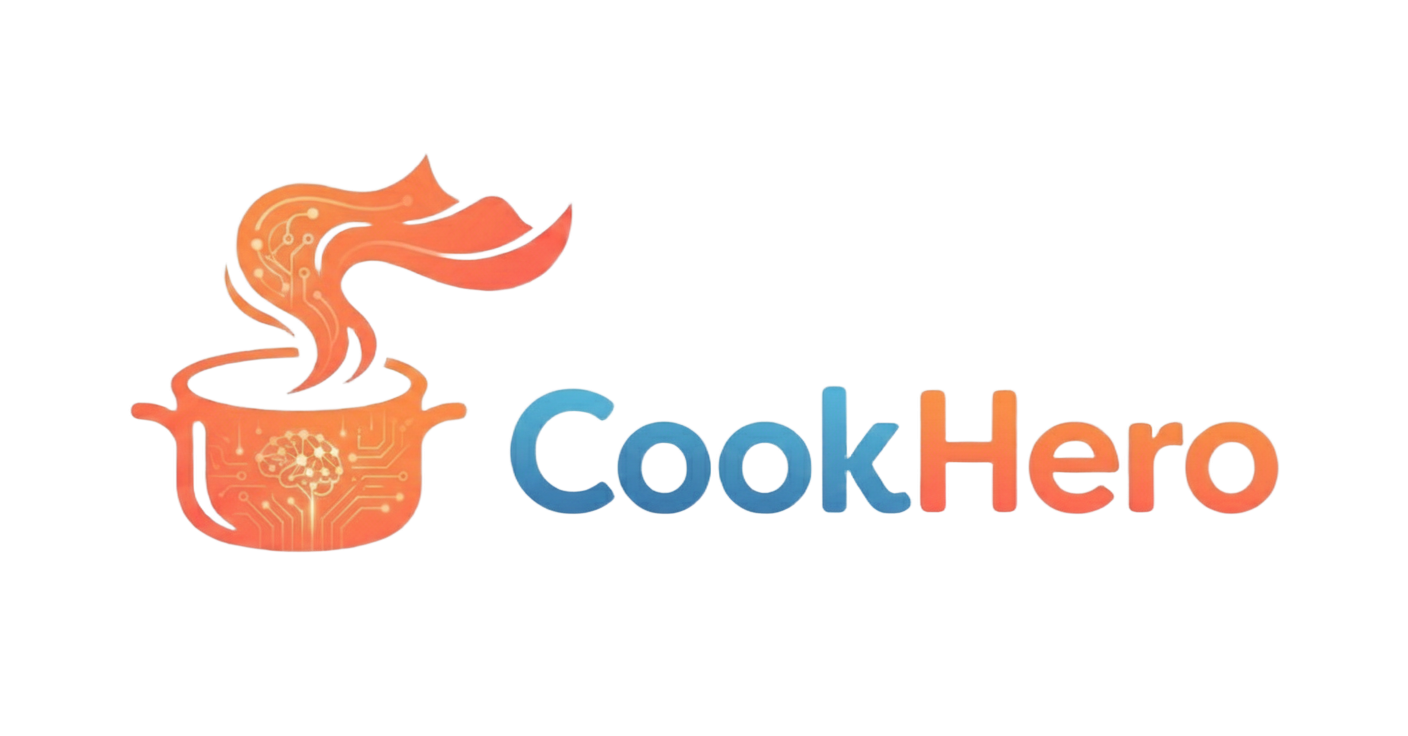
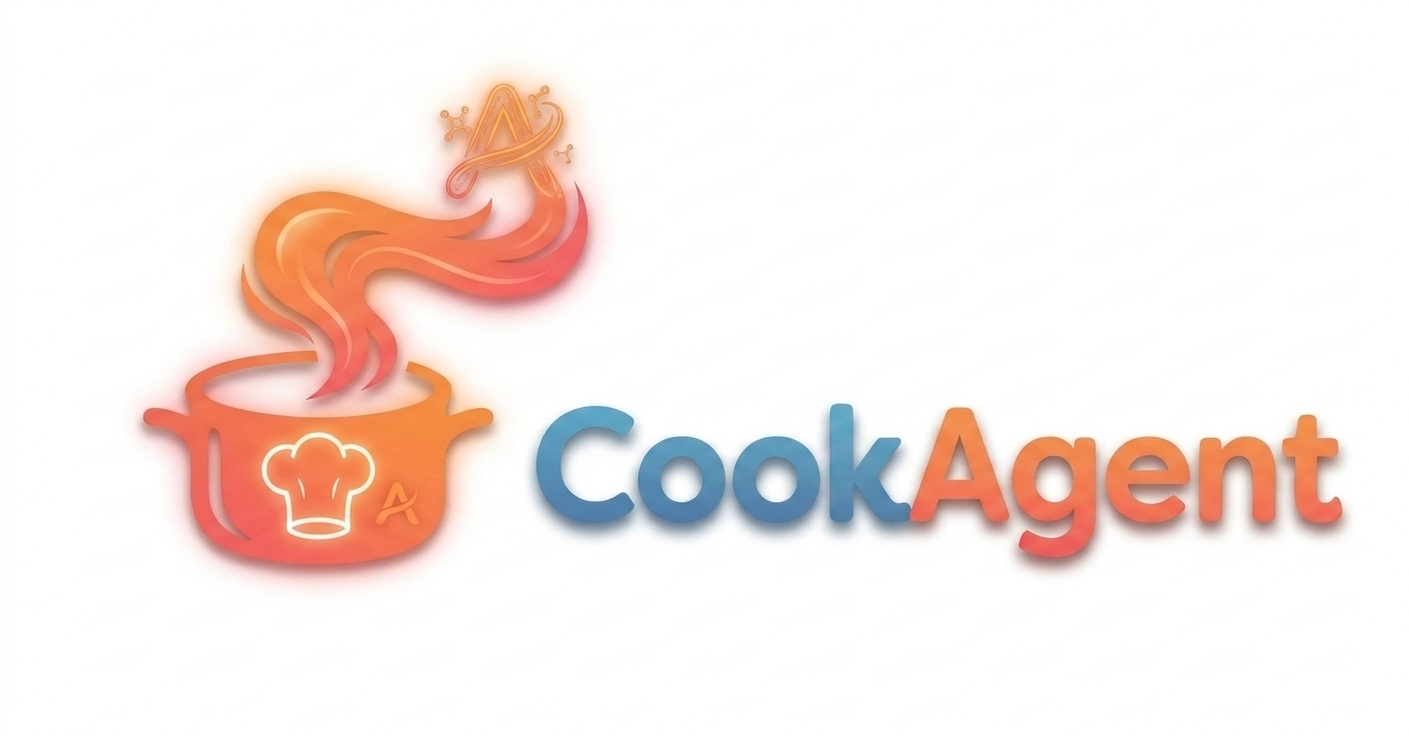
update_frontend

Changed region(s): [[0.0938, 0.0938, 0.9688, 0.8125]]

diff --git a/frontend/src/App.tsx b/frontend/src/App.tsx
@@ -130,7 +130,7 @@ function ChatView() {
               onToolsOpenChange={setIsToolSelectorOpen}
             />
             <div className="text-center text-xs text-gray-400 mt-2">
-              CookHero Agent can make mistakes. Consider checking important information.
+              CookAgent can make mistakes. Consider checking important information.
             </div>
           </div>
         </>
@@ -148,12 +148,12 @@ function ChatView() {
               onCancel={stopGeneration}
               disabled={isLoading}
               isStreaming={isStreaming}
-              placeholder="Ask CookHero anything about cooking..."
+              placeholder="Ask CookAgent anything about cooking..."
               externalValue={suggestionText}
               onExternalValueConsumed={handleSuggestionConsumed}
             />
             <div className="text-center text-xs text-gray-400 mt-2">
-              CookHero can make mistakes. Consider checking important information.
+              CookAgent can make mistakes. Consider checking important information.
             </div>
           </div>
         </>
@@ -319,7 +319,7 @@ function MainLayout({ children }: { children: React.ReactNode }) {
             </button>
             {/* <div className="flex items-center gap-2">
               <span className="text-2xl">🍳</span>
-              <h1 className="font-bold text-gray-800 dark:text-gray-100">CookHero</h1>
+              <h1 className="font-bold text-gray-800 dark:text-gray-100">CookAgent</h1>
             </div> */}
           </div>
           <div className="flex items-center gap-1.5 sm:gap-3 text-xs text-gray-600 dark:text-gray-300 overflow-visible">

diff --git a/frontend/src/constants/index.ts b/frontend/src/constants/index.ts
@@ -10,10 +10,10 @@ export const CONVERSATIONS_PAGE_SIZE = 30;
 
 // Storage Keys
 export const STORAGE_KEYS = {
-  TOKEN: 'cookhero_token',
-  USERNAME: 'cookhero_username',
+  TOKEN: 'cookagent_token',
+  USERNAME: 'cookagent_username',
   THEME: 'theme',
-  STREAMING_CACHE: 'cookhero_streaming_cache',
+  STREAMING_CACHE: 'cookagent_streaming_cache',
 } as const;
 
 // Intent Labels
@@ -35,5 +35,5 @@ export const DATE_CATEGORY_LABELS = {
 } as const;
 
 // App Info
-export const APP_NAME = 'CookHero';
+export const APP_NAME = 'CookAgent';
 export const APP_EMOJI = '🍳';

diff --git a/frontend/src/components/agent/AgentChatWindow.tsx b/frontend/src/components/agent/AgentChatWindow.tsx
@@ -134,12 +134,12 @@ function EmptyState({
             {/* <section className="relative flex-1 flex flex-col items-center justify-center overflow-hidden">
                 <div className="flex items-center gap-4">
                     <div className="w-20 h-20 bg-orange-100 dark:bg-orange-900/30 rounded-2xl flex items-center justify-center text-orange-600 dark:text-orange-400 shrink-0 overflow-hidden">
-                        <img src="/image.png" alt="CookHero Logo" className="w-full h-full object-contain p-2" />
+                        <img src="/image.png" alt="CookAgent Logo" className="w-full h-full object-contain p-2" />
                     </div>
                     <div className="w-100 h-48 max-w-5xl mx-auto flex items-center justify-center">
                         <img
                             src="/image.png"
-                            alt="CookHero Logo"
+                            alt="CookAgent Logo"
                             className="w-full max-w-4xl object-contain transition-all duration-500 group-hover:scale-105"
                         />
                     </div>
@@ -159,7 +159,7 @@ function EmptyState({
                         <div className="w-100 h-48 max-w-5xl mx-auto flex items-center justify-center">
                             <img
                                 src="/image.png"
-                                alt="CookHero Logo"
+                                alt="CookAgent Logo"
                                 className="w-full max-w-4xl object-contain transition-all duration-500 group-hover:scale-105"
                             />
                         </div>

diff --git a/frontend/index.html b/frontend/index.html
@@ -4,9 +4,9 @@
     <meta charset="UTF-8" />
     <link rel="icon" type="image/x-icon" href="/image.png" />
     <meta name="viewport" content="width=device-width, initial-scale=1.0" />
-    <meta name="description" content="CookHero - 智能烹饪助手，让每个人都能成为厨房英雄" />
+    <meta name="description" content="CookAgent - 智能烹饪助手，让每个人都能成为厨房英雄" />
     <meta name="keywords" content="烹饪,食谱,AI助手,智能推荐,健康饮食" />
-    <title>CookHero - 智能烹饪助手</title>
+    <title>CookAgent - 智能烹饪助手</title>
   </head>
   <body>
     <div id="root"></div>

diff --git a/frontend/src/components/chat/ChatWindow.tsx b/frontend/src/components/chat/ChatWindow.tsx
@@ -109,7 +109,7 @@ function EmptyState({
                     <div className="w-100 h-48 max-w-5xl mx-auto flex items-center justify-center">
                         <img
                             src="/image.png"
-                            alt="CookHero Logo"
+                            alt="CookAgent Logo"
                             className="w-full max-w-4xl object-contain transition-all duration-500 group-hover:scale-105"
                         />
                     </div>
@@ -223,7 +223,7 @@ function LoadingIndicator() {
             </div>
             <div className="space-y-2 pt-2">
                 <div className="flex items-center gap-2 text-sm text-gray-500 dark:text-gray-400">
-                    <span className="animate-pulse">CookHero is thinking...</span>
+                    <span className="animate-pulse">CookAgent is thinking...</span>
                 </div>
             </div>
         </div>

diff --git a/frontend/src/components/layout/Sidebar.tsx b/frontend/src/components/layout/Sidebar.tsx
@@ -309,11 +309,11 @@ function SidebarHeader({
                     <div className="w-8 h-8 flex items-center justify-center">
                         <img
                             src="/logo.png"
-                            alt="CookHero Logo"
+                            alt="CookAgent Logo"
                             className="w-full h-full object-contain"
                         />
                     </div>
-                    <span className="font-bold text-gray-800 dark:text-gray-100">CookHero</span>
+                    <span className="font-bold text-gray-800 dark:text-gray-100">CookAgent</span>
                     
                     {onToggleAgentMode && (
                         <button

diff --git a/frontend/src/components/agent/AgentMessageBubble.tsx b/frontend/src/components/agent/AgentMessageBubble.tsx
@@ -168,7 +168,7 @@ function buildSourcesFromTrace(trace: TraceStep[], fallbackSources?: Source[]) {
           addSource(
             {
               type: source.type || 'rag',
-              info: source.info || 'CookHero 知识库',
+              info: source.info || 'CookAgent 知识库',
               url: source.url,
             },
             ragSources,

diff --git a/frontend/src/pages/Login.tsx b/frontend/src/pages/Login.tsx
@@ -41,7 +41,7 @@ function LoginPage() {
       <div className="w-full max-w-md bg-white dark:bg-gray-900 shadow-xl rounded-2xl p-8 border border-orange-100/70 dark:border-gray-800">
         <div className="flex items-center gap-2 mb-6">
           <span className="text-3xl">🍳</span>
-          <h1 className="text-2xl font-bold text-gray-900 dark:text-gray-100">Welcome back to CookHero</h1>
+          <h1 className="text-2xl font-bold text-gray-900 dark:text-gray-100">Welcome back to CookAgent</h1>
         </div>
         <p className="text-sm text-gray-600 dark:text-gray-400 mb-6">Sign in to continue your cooking conversations.</p>
 

diff --git a/frontend/src/pages/Register.tsx b/frontend/src/pages/Register.tsx
@@ -42,7 +42,7 @@ function RegisterPage() {
       <div className="w-full max-w-md bg-white dark:bg-gray-900 shadow-xl rounded-2xl p-8 border border-orange-100/70 dark:border-gray-800">
         <div className="flex items-center gap-2 mb-6">
           <span className="text-3xl">🧑🍳</span>
-          <h1 className="text-2xl font-bold text-gray-900 dark:text-gray-100">Join CookHero</h1>
+          <h1 className="text-2xl font-bold text-gray-900 dark:text-gray-100">Join CookAgent</h1>
         </div>
         <p className="text-sm text-gray-600 dark:text-gray-400 mb-6">Create an account to start new cooking chats.</p>
 